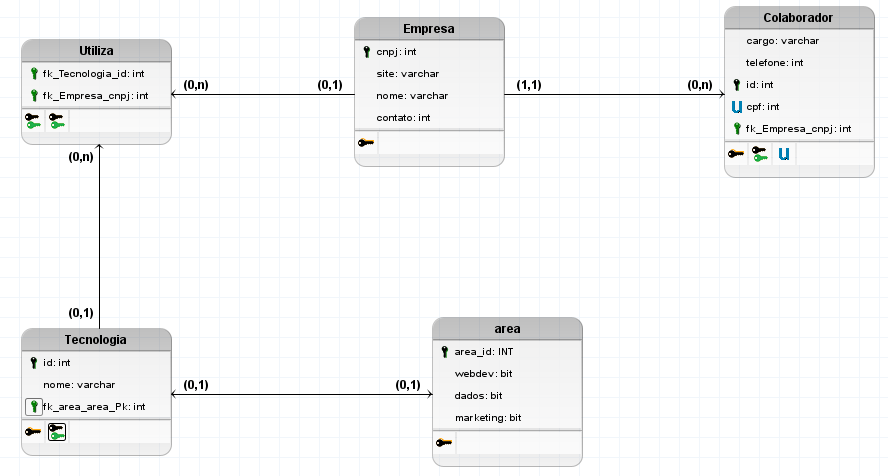
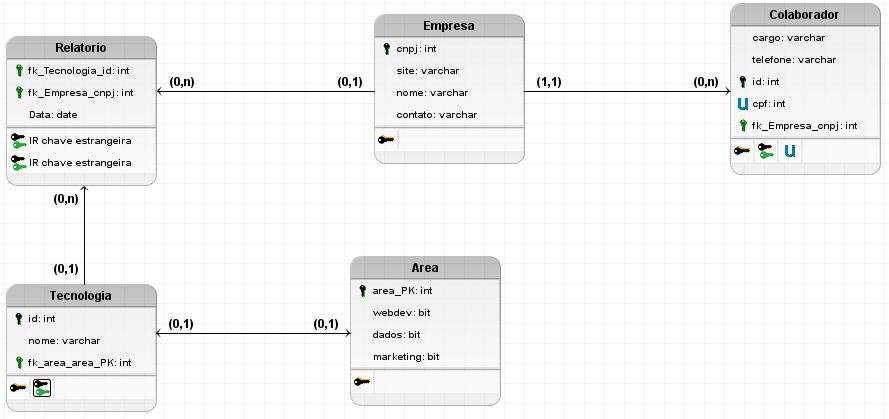
perguntas v1

diff --git a/perguntas.md b/perguntas.md
@@ -40,8 +40,8 @@
 | 1 | 1 | 1 | 0 |
 | 2 | 1 | 0 | 0 |
 
-### Entidade "Utiliza":
-| fk_Tecnologia_id | fk_Empresa_cnpj |
-|----------|----------|
-| 1 | 123456789 |
-| 2 | 987654321 |
+### Entidade "Relatorio":
+| Data | fk_Tecnologia_id | fk_Empresa_cnpj |
+|----------|----------|----------|
+| 2022/01/01 | 1 | 123456789 |
+| 2022/02/02 | 2 | 987654321 |
